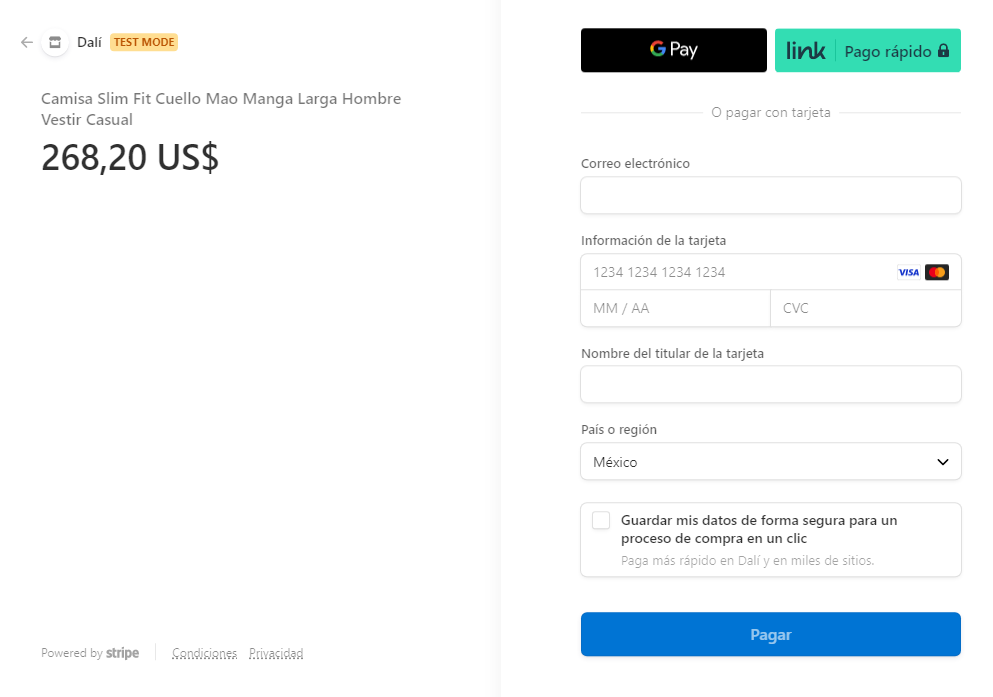
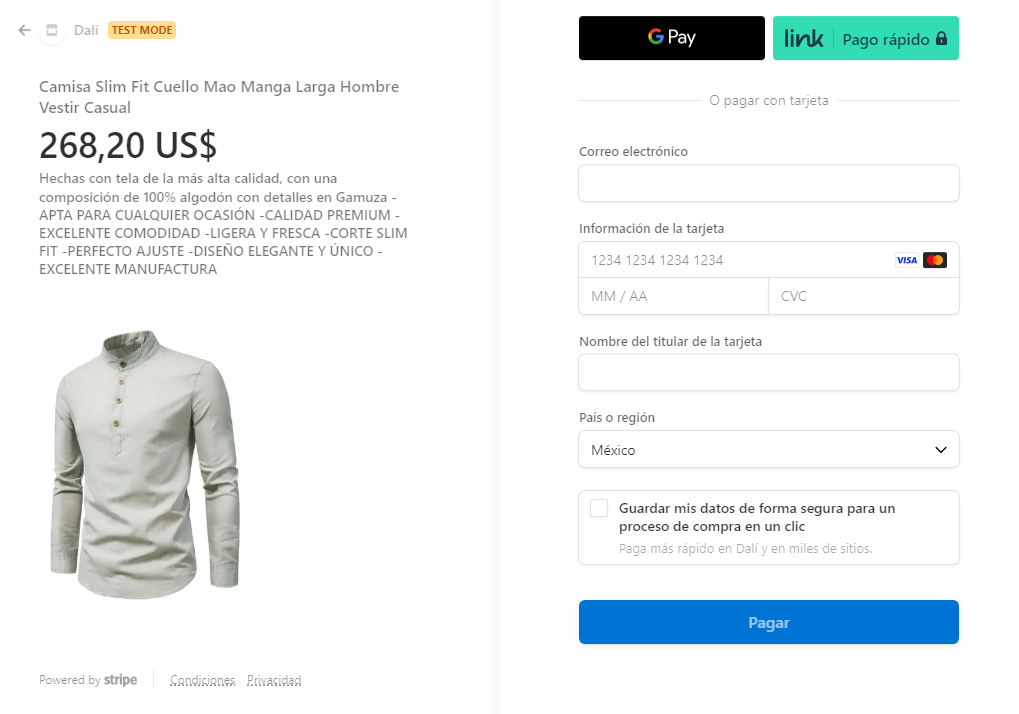
edicion readme

diff --git a/app/Http/Controllers/ProductosController.php b/app/Http/Controllers/ProductosController.php
@@ -157,6 +157,10 @@ class ProductosController extends Controller
                 'currency' => 'usd',
                 'product_data' => [
                   'name' => $producto->nombre,
+                  'description' => $producto->descripcion,
+                  /*'images' => [
+                    "https://http2.mlstatic.com/D_NQ_NP_733380-MLM48470960434_122021-O.webp"
+                  ],*/
                 ],
                 'unit_amount' => $producto->precio*100,
               ],

diff --git a/README.md b/README.md
@@ -26,7 +26,7 @@
 <br>
 
 <li>Comprar Producto<br>
-<img src="./readmeFiles/comprarProducto.PNG"alt="Login"/><br>Para realizar las compras ase utilizo el sdk de stripe.
+<img src="./readmeFiles/comprarProducto.PNG"alt="Login"/><br>Para realizar las compras ase utilizo el sdk de <a href="https://stripe.com/docs/payments/accept-a-payment">Stripe</a>.
 </li>
 <br>
 
